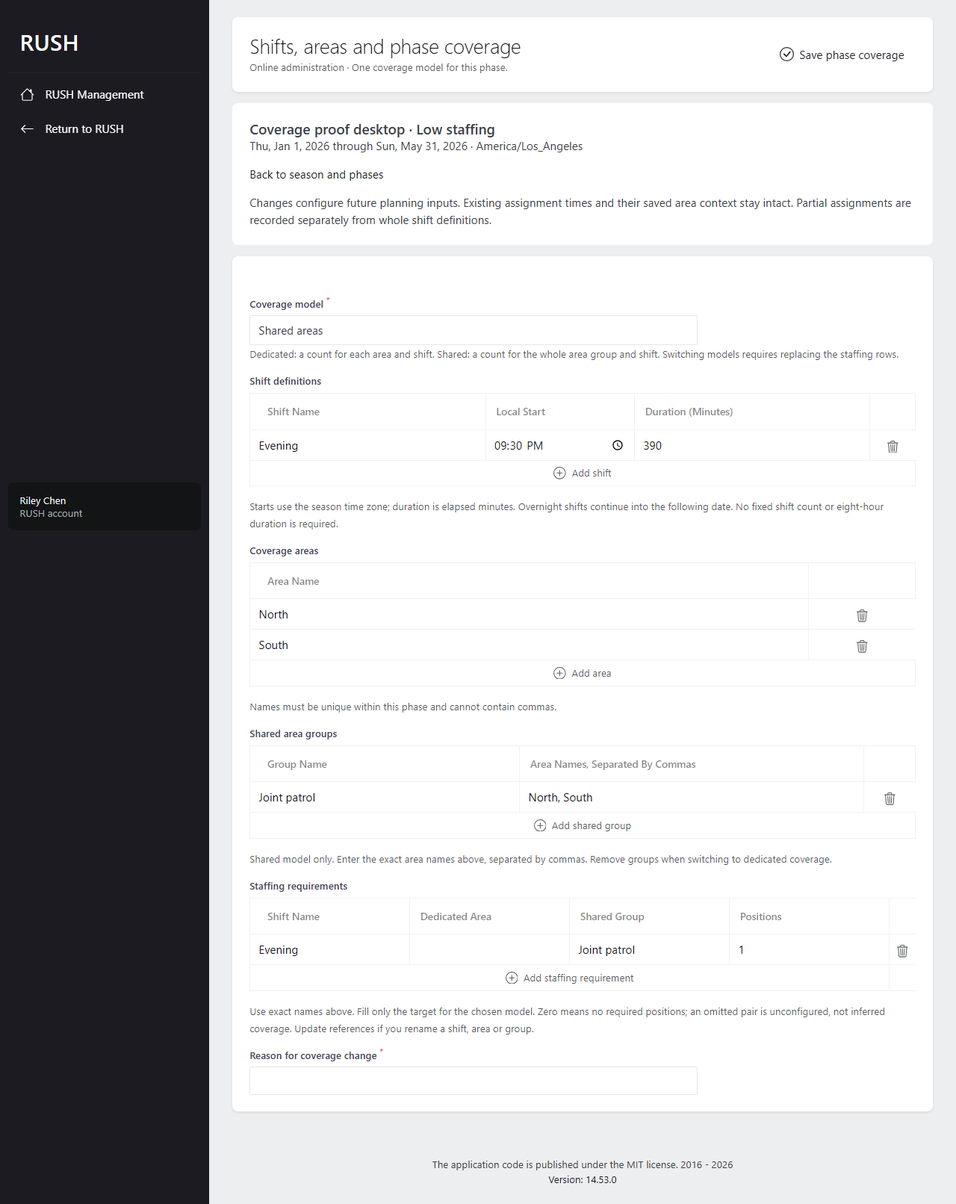
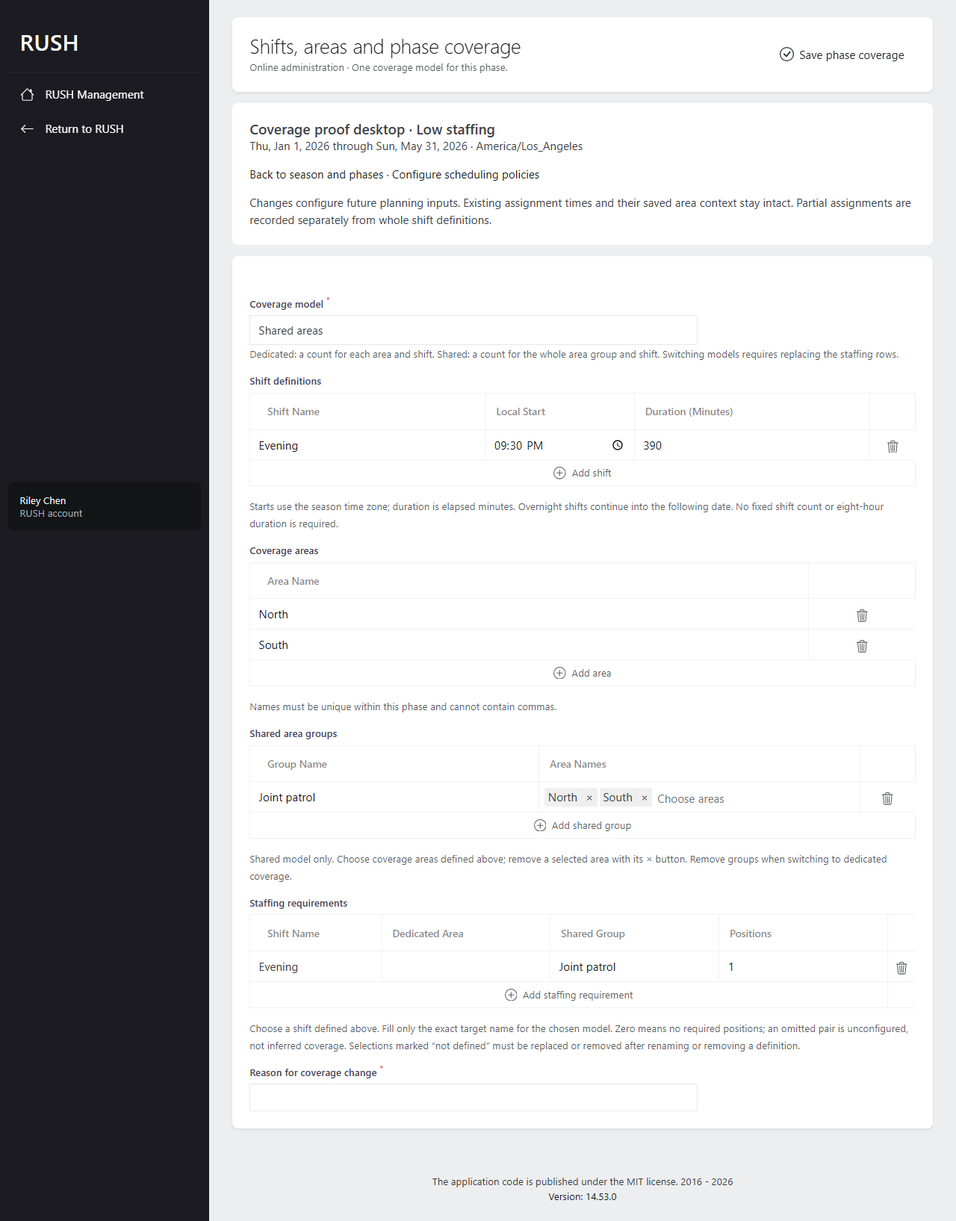
fix(seasons): select phase coverage references from definitions
Replace typed shared-area references with removable Orchid selection pills and
staffing shift names with dropdowns populated from unsaved definitions. Preserve
invalid selected names for explicit correction after definition changes and
Server rejection, while keeping staffing counts explicit and domain validation
authoritative. Document and exercise desktop and mobile form behavior.

Refs: RUSH-016
Requirements: R-02, R-03
Tests: php vendor/bin/pest tests/Feature/PhaseCoverageTest.php --compact passed (32 tests, 239 assertions); php vendor/bin/pint --test passed; npx playwright test --config playwright.integration.config.ts phase-coverage.spec.ts passed (2 desktop/mobile tests); npm run lint:check and npm run typecheck passed; npm run conventions:test passed (8 tests); git diff --check passed.

diff --git a/client/e2e/integration/phase-coverage.spec.ts b/client/e2e/integration/phase-coverage.spec.ts
@@ -45,9 +45,22 @@ test('Management configures dedicated and shared phase coverage with validation 
   );
   expect(season.status()).toBe(201);
   const phases = ((await season.json()) as { phases: { id: string }[] }).phases;
+  const selector = (label: string) => page.locator(`select[aria-label="${label}"]`).locator('..');
+  const choose = async (label: string, name: string) => {
+    const field = selector(label);
+    if (!(await field.locator('.ts-dropdown').isVisible())) {
+      // Target the search input in a multi-select; its center can contain a pill's remove button.
+      const multiple = await field.locator('select').getAttribute('multiple');
+      await field.locator(multiple === null ? '.ts-control' : '.ts-control input').click();
+    }
+    await field.locator('.ts-dropdown').getByText(name, { exact: true }).click();
+  };
   await page.goto(`/admin/organizations/${organization}/seasons/${seasonId}`);
   await page.locator(`a[href$="/phases/${phases[0]!.id}/coverage"]`).click();
+  await expect(page).toHaveURL(new RegExp(`/phases/${phases[0]!.id}/coverage$`));
   await page.locator('select[name="configuration[model]"]').selectOption('dedicated');
+  await page.getByRole('link', { name: 'Add staffing requirement', exact: true }).click();
+  await expect(selector('Staffing shift name').locator('select')).toHaveValue('');
   await page.getByRole('link', { name: 'Add shift', exact: true }).click();
   await page.getByLabel('Shift name', { exact: true }).fill('Evening');
   await page.getByLabel('Shift local start', { exact: true }).fill('21:30');
@@ -56,8 +69,14 @@ test('Management configures dedicated and shared phase coverage with validation 
     await page.getByRole('link', { name: 'Add area', exact: true }).click();
     await page.getByLabel('Area name', { exact: true }).last().fill(name);
   }
-  await page.getByRole('link', { name: 'Add staffing requirement', exact: true }).click();
-  await page.getByLabel('Staffing shift name', { exact: true }).fill('Evening');
+  await choose('Staffing shift name', 'Evening');
+  await page.getByLabel('Shift name', { exact: true }).fill('Night');
+  await expect(selector('Staffing shift name').locator('.item')).toHaveText(
+    'Evening (not defined)',
+  );
+  await choose('Staffing shift name', 'Night');
+  await page.getByLabel('Shift name', { exact: true }).fill('Evening');
+  await choose('Staffing shift name', 'Evening');
   await page.getByLabel('Staffing dedicated area', { exact: true }).fill('North');
   await page.getByLabel('Staffing shared group', { exact: true }).fill('Invalid mixed model');
   await page.getByLabel('Required positions', { exact: true }).fill('2');
@@ -67,6 +86,7 @@ test('Management configures dedicated and shared phase coverage with validation 
   await page.getByRole('button', { name: 'Save phase coverage', exact: true }).click();
   await expect(page.getByText(/coverage models cannot be mixed/).first()).toBeVisible();
   await expect(page.getByLabel('Shift local start', { exact: true })).toHaveValue('21:30');
+  await expect(selector('Staffing shift name').locator('select')).toHaveValue('Evening');
   await page.getByLabel('Staffing shared group', { exact: true }).clear();
   await page.getByRole('button', { name: 'Save phase coverage', exact: true }).click();
   await expect(page.getByText('Phase coverage saved.').first()).toBeVisible();
@@ -79,13 +99,29 @@ test('Management configures dedicated and shared phase coverage with validation 
   await page.locator('select[name="configuration[model]"]').selectOption('shared');
   await page.getByRole('link', { name: 'Add shared group', exact: true }).click();
   await page.getByLabel('Group name', { exact: true }).fill('Joint patrol');
-  await page.getByLabel('Group area names', { exact: true }).fill('North, South');
+  await choose('Group area names', 'North');
+  await choose('Group area names', 'South');
+  const members = selector('Group area names');
+  await members.locator('.item[data-value="South"] .remove').click();
+  await expect(members.locator('select')).toHaveValues(['North']);
+  await choose('Group area names', 'South');
+  // New unsaved definitions are selectable immediately, and removed references retain intent.
+  await page.getByRole('link', { name: 'Add area', exact: true }).click();
+  const newArea = page.getByLabel('Area name', { exact: true }).last();
+  await newArea.fill('East');
+  await choose('Group area names', 'East');
+  await newArea.locator('xpath=ancestor::tr').getByRole('link', { name: 'Remove row' }).click();
+  await expect(members.locator('.item[data-value="East"]')).toContainText('East (not defined)');
   await page.getByLabel('Staffing dedicated area', { exact: true }).clear();
   await page.getByLabel('Staffing shared group', { exact: true }).fill('Joint patrol');
   await page.getByLabel('Required positions', { exact: true }).fill('1');
   await page
     .getByLabel('Reason for coverage change', { exact: false })
     .fill('One Ranger covers both areas');
+  await page.getByRole('button', { name: 'Save phase coverage', exact: true }).click();
+  await expect(page.getByText('Choose areas defined in this phase.').first()).toBeVisible();
+  await expect(members.locator('select')).toHaveValues(['North', 'South', 'East']);
+  await members.locator('.item[data-value="East"] .remove').click();
   await page.getByRole('button', { name: 'Save phase coverage', exact: true }).click();
   await expect(page.locator('input[name="configuration[expected_revision]"]')).toHaveValue('2');
   await stale.getByLabel('Shift name', { exact: true }).fill('Keep this unsaved shift');
@@ -111,6 +147,8 @@ test('Management configures dedicated and shared phase coverage with validation 
   expect(saved.revision).toBe(2);
   expect(saved.groups[0]!.area_names).toEqual(['North', 'South']);
   await page.reload();
+  await expect(members.locator('select')).toHaveValues(['North', 'South']);
+  await expect(selector('Staffing shift name').locator('select')).toHaveValue('Evening');
   expect(await page.evaluate(() => document.documentElement.scrollWidth <= window.innerWidth)).toBe(
     true,
   );

diff --git a/server/resources/views/admin/phase-coverage.blade.php b/server/resources/views/admin/phase-coverage.blade.php
@@ -1,25 +1,27 @@
 <style>
     .matrix th:has(input[type="hidden"]) { display: none; }
+    .matrix .ts-wrapper { min-width: 10rem; }
+    .matrix .ts-control .item { overflow-wrap: anywhere; }
     @media (max-width: 767px) {
         .matrix, .matrix tbody, .matrix tr, .matrix th { display: block; width: 100%; }
         .matrix thead { display: none; }
         .matrix tr:not(.add-row) { padding: .5rem; margin-bottom: 1rem; border: 1px solid #d5d9dd; }
         .matrix th:has(input[type="hidden"]) { display: none; }
         .matrix a { min-height: 44px; display: inline-flex; align-items: center; }
-        .matrix th:has(input)::before { display: block; padding: .3rem .75rem 0; font-weight: normal; }
+        .matrix th:has(input, select)::before { display: block; padding: .3rem .75rem 0; font-weight: normal; }
         .matrix th:has(input[aria-label="Shift name"])::before { content: 'Shift name'; }
         .matrix th:has(input[aria-label="Shift local start"])::before { content: 'Local start'; }
         .matrix th:has(input[aria-label="Shift duration in minutes"])::before { content: 'Duration (minutes)'; }
         .matrix th:has(input[aria-label="Area name"])::before { content: 'Area name'; }
         .matrix th:has(input[aria-label="Group name"])::before { content: 'Group name'; }
-        .matrix th:has(input[aria-label="Group area names"])::before { content: 'Area names, separated by commas'; }
-        .matrix th:has(input[aria-label="Staffing shift name"])::before { content: 'Shift name'; }
+        .matrix th:has(select[aria-label="Group area names"])::before { content: 'Area names'; }
+        .matrix th:has(select[aria-label="Staffing shift name"])::before { content: 'Shift name'; }
         .matrix th:has(input[aria-label="Staffing dedicated area"])::before { content: 'Dedicated area'; }
         .matrix th:has(input[aria-label="Staffing shared group"])::before { content: 'Shared group'; }
         .matrix th:has(input[aria-label="Required positions"])::before { content: 'Positions'; }
     }
 </style>
-<div class="bg-white rounded p-4 mb-3">
+<div class="bg-white rounded p-4 mb-3" data-controller="coverage-references">
     <h2 class="h5">{{ $season->name }} · {{ $phase->name }}</h2>
     <p>{{ \Carbon\CarbonImmutable::parse($phase->starts_on, 'UTC')->format('D, M j, Y') }}
         through {{ \Carbon\CarbonImmutable::parse($phase->ends_on, 'UTC')->format('D, M j, Y') }} · {{ $season->timezone }}</p>
@@ -27,3 +29,61 @@
     · <a href="{{ route('platform.phase-policies', [$organization->id, $phase->id]) }}">Configure scheduling policies</a>
     <p class="mt-3 mb-0">Changes configure future planning inputs. Existing assignment times and their saved area context stay intact. Partial assignments are recorded separately from whole shift definitions.</p>
 </div>
+
+@push('scripts')
+    <script>
+        window.application.register('coverage-references', class extends window.Controller {
+            connect() {
+                this.form = this.element.closest('form');
+                this.onReferenceInput = (event) => {
+                    if (event.target.matches('input[name^="configuration[areas]"][name$="[name]"], input[name^="configuration[shifts]"][name$="[name]"], select[aria-label="Group area names"], select[aria-label="Staffing shift name"]')) {
+                        this.refreshReferences();
+                    }
+                };
+                this.form.addEventListener('input', this.onReferenceInput);
+                this.form.addEventListener('change', this.onReferenceInput);
+                // Matrix rows and Orchid's select widgets connect independently, including after Turbo navigation.
+                this.observer = new MutationObserver((changes) => {
+                    if (changes.some((change) => [...change.addedNodes, ...change.removedNodes].some((node) =>
+                        node instanceof Element && (node.matches('tr, .ts-wrapper'))))) this.refreshReferences();
+                });
+                this.observer.observe(this.form, { childList: true, subtree: true });
+                this.refreshReferences();
+            }
+
+            disconnect() {
+                this.observer.disconnect();
+                this.form.removeEventListener('input', this.onReferenceInput);
+                this.form.removeEventListener('change', this.onReferenceInput);
+            }
+
+            refreshReferences() {
+                for (const [collection, label] of [['areas', 'Group area names'], ['shifts', 'Staffing shift name']]) {
+                    const names = [...new Set([...this.form.querySelectorAll(`input[name^="configuration[${collection}]"][name$="[name]"]`)]
+                        .map((input) => input.value.trim()).filter(Boolean))];
+                    for (const select of this.form.querySelectorAll(`select[aria-label="${label}"]`)) {
+                        const selected = [...select.selectedOptions].map((option) => option.value).filter(Boolean);
+                        const values = [...new Set([...names, ...selected])];
+                        const options = values.map((value) => ({ value, text: names.includes(value) ? value : `${value} (not defined)` }));
+                        if (!select.multiple) options.unshift({ value: '', text: 'Choose a shift' });
+                        const choices = select.tomselect;
+                        if (choices) {
+                            choices.control_input.setAttribute('aria-label', label);
+                            for (const value of Object.keys(choices.options)) {
+                                if (!options.some((option) => option.value === value)) choices.removeOption(value, true);
+                            }
+                            for (const option of options) {
+                                if (!choices.options[option.value]) choices.addOption(option);
+                                else if (choices.options[option.value].text !== option.text) choices.updateOption(option.value, option);
+                            }
+                            choices.refreshOptions(false);
+                        } else {
+                            select.replaceChildren(...options.map(({ value, text }) => new Option(text, value, false, selected.includes(value))));
+                            if (!select.multiple && selected.length === 0) select.value = '';
+                        }
+                    }
+                }
+            }
+        });
+    </script>
+@endpush

diff --git a/server/app/Orchid/Screens/PhaseCoverageScreen.php b/server/app/Orchid/Screens/PhaseCoverageScreen.php
@@ -36,8 +36,7 @@ class PhaseCoverageScreen extends Screen
         $snapshot = $coverage->snapshot($record);
 
         return ['organization' => $organization, 'phase' => $record, 'season' => Season::findOrFail($record->season_id),
-            'configuration' => [...$snapshot, 'expected_revision' => $snapshot['revision'], 'expected_season_revision' => $snapshot['season_revision'],
-                'groups' => array_map(fn ($group) => [...$group, 'area_names' => implode(', ', $group['area_names'])], $snapshot['groups'])]];
+            'configuration' => [...$snapshot, 'expected_revision' => $snapshot['revision'], 'expected_season_revision' => $snapshot['season_revision']]];
     }
 
     public function commandBar(): iterable
@@ -61,18 +60,27 @@ class PhaseCoverageScreen extends Screen
             Matrix::make('configuration.areas')->title('Coverage areas')->columns(['Area name' => 'name', '' => 'id'])
                 ->fields(['name' => Input::make()->set('aria-label', 'Area name')->required()->maxlength(120), 'id' => Input::make()->type('hidden')])
                 ->maxRows(100)->addRowLabel('Add area')->help('Names must be unique within this phase and cannot contain commas.'),
-            Matrix::make('configuration.groups')->title('Shared area groups')->columns(['Group name' => 'name', 'Area names, separated by commas' => 'area_names', '' => 'id'])
+            Matrix::make('configuration.groups')->title('Shared area groups')->columns(['Group name' => 'name', 'Area names' => 'area_names', '' => 'id'])
                 ->fields(['name' => Input::make()->set('aria-label', 'Group name')->required()->maxlength(120),
-                    'area_names' => Input::make()->set('aria-label', 'Group area names')->required(), 'id' => Input::make()->type('hidden')])
-                ->maxRows(100)->addRowLabel('Add shared group')->help('Shared model only. Enter the exact area names above, separated by commas. Remove groups when switching to dedicated coverage.'),
+                    'area_names' => $this->referenceSelect('Group area names')->multiple()->placeholder('Choose areas')->required(), 'id' => Input::make()->type('hidden')])
+                ->maxRows(100)->addRowLabel('Add shared group')->help('Shared model only. Choose coverage areas defined above; remove a selected area with its × button. Remove groups when switching to dedicated coverage.'),
             Matrix::make('configuration.staffing')->title('Staffing requirements')->columns(['Shift name' => 'shift_name', 'Dedicated area' => 'area_name', 'Shared group' => 'group_name', 'Positions' => 'positions'])
-                ->fields(['shift_name' => Input::make()->set('aria-label', 'Staffing shift name')->required(),
+                ->fields(['shift_name' => $this->referenceSelect('Staffing shift name')->empty('Choose a shift')->required(),
                     'area_name' => Input::make()->set('aria-label', 'Staffing dedicated area'),
                     'group_name' => Input::make()->set('aria-label', 'Staffing shared group'),
                     'positions' => Input::make()->type('number')->min(0)->step(1)->set('aria-label', 'Required positions')->required()])
-                ->maxRows(10000)->addRowLabel('Add staffing requirement')->help('Use exact names above. Fill only the target for the chosen model. Zero means no required positions; an omitted pair is unconfigured, not inferred coverage. Update references if you rename a shift, area or group.'),
+                ->maxRows(10000)->addRowLabel('Add staffing requirement')->help('Choose a shift defined above. Fill only the exact target name for the chosen model. Zero means no required positions; an omitted pair is unconfigured, not inferred coverage. Selections marked “not defined” must be replaced or removed after renaming or removing a definition.'),
             Input::make('configuration.reason')->title('Reason for coverage change')->required()->maxlength(500),
         ])];
+    }
+
+    private function referenceSelect(string $label): Select
+    {
+        return Select::make()->set('aria-label', $label)->addBeforeRender(function () {
+            // Preserve saved and rejected selections; the form adds current unsaved definitions.
+            $values = array_filter((array) $this->get('value'), fn ($value) => is_string($value) && $value !== '');
+            $this->options(array_combine($values, $values));
+        });
     }
 
     public function save(Request $request, Organization $organization, string $phase, SavePhaseCoverage $service): RedirectResponse
@@ -81,14 +89,6 @@ class PhaseCoverageScreen extends Screen
         abort_unless(is_array($input), 422);
         foreach (['shifts', 'areas', 'groups', 'staffing'] as $key) {
             $input[$key] ??= [];
-        }
-        if (is_array($input['groups'])) {
-            foreach ($input['groups'] as &$group) {
-                if (is_array($group) && is_string($group['area_names'] ?? null)) {
-                    $group['area_names'] = array_map('trim', explode(',', $group['area_names']));
-                }
-            }
-            unset($group);
         }
         try {
             $service->handle($request->user(), $organization, $phase, [...$input, 'expected_revision' => $input['expected_revision'] ?? null]);

diff --git a/server/tests/Feature/PhaseCoverageTest.php b/server/tests/Feature/PhaseCoverageTest.php
@@ -128,6 +128,28 @@ it('rejects stale season revisions and foreign row identities with atomic rollba
     $this->assertDatabaseCount('phase_coverage_changes', 1);
 });
 
+it('accepts selected area arrays from Orchid and rejects empty or unknown selections without changing coverage', function () {
+    $admin = '/admin/organizations/'.$this->manager->organization_id.'/phases/'.$this->phase->id.'/coverage';
+    $shared = [...$this->input, 'model' => 'shared',
+        'groups' => [['name' => 'Joint', 'area_names' => ['North', 'South']]],
+        'staffing' => [['shift_name' => 'Evening', 'group_name' => 'Joint', 'positions' => 2]]];
+    $this->actingAs($this->manager->user, 'web')->from($admin)
+        ->post($admin.'/save', ['configuration' => $shared])->assertRedirect($admin)->assertSessionHasNoErrors();
+    $this->getJson($this->url)->assertJsonPath('groups.0.area_names', ['North', 'South']);
+    $shared['expected_revision'] = 1;
+    foreach ([[], ['Missing'], 'North, South'] as $members) {
+        $bad = $shared;
+        $bad['groups'][0]['area_names'] = $members;
+        $this->from($admin)->post($admin.'/save', ['configuration' => $bad])
+            ->assertRedirect($admin)->assertSessionHasErrors('configuration.groups.0.area_names')
+            ->assertSessionHasInput('configuration.groups.0.area_names', $members);
+        $this->getJson($this->url)->assertJsonPath('revision', 1)->assertJsonPath('groups.0.area_names', ['North', 'South']);
+    }
+    $shared['groups'][0]['area_names'] = ['North'];
+    $this->post($admin.'/save', ['configuration' => $shared])->assertRedirect($admin)->assertSessionHasNoErrors();
+    $this->getJson($this->url)->assertJsonPath('revision', 2)->assertJsonPath('groups.0.area_names', ['North']);
+});
+
 it('rolls back all configuration when audit persistence fails', function () {
     $this->actingAs($this->manager->user)->putJson($this->url, $this->input)->assertOk();
     DB::table('phase_coverage_changes')->insert(['id' => (string) Str::uuid(), 'phase_id' => $this->phase->id,

diff --git a/docs/evidence/RUSH-016/README.md b/docs/evidence/RUSH-016/README.md
@@ -70,9 +70,10 @@ protocol changes. Rollback removes these configuration records and the context
 column; back up before rolling back after real data is entered. Existing
 assignment audit JSON remains intact.
 
-Configuration is online and phase-scoped. Group member entry is comma-separated
-in Orchid, so area names cannot contain commas. Exact-name references must be
-updated when renaming inputs. Partial assignment creation/edit UI and generated
+Configuration is online and phase-scoped. Group member entry uses removable
+selection pills in Orchid; the existing domain restriction on commas in area
+names remains. Exact-name references must be updated when renaming inputs.
+Partial assignment creation/edit UI and generated
 whole-shift defaults remain RUSH-023; this task provides their validated persisted
 representation through the existing Management API. No employment/fairness
 policy, gap calculation, publication or payroll behavior is added.
@@ -108,3 +109,35 @@ cooldown regressions); Client `npm run lint:check` and `npm run typecheck`
 attempt reused records from focused tests and hit the availability fixture's
 last-row assumption; the clean fixture rerun above passed without changing
 that workflow. GitHub CI must rerun for the updated commit.
+
+## Coverage selector follow-up (2026-10-13)
+
+R-02/R-03 configuration now uses Orchid multiple-select pills for shared-area
+membership and a dropdown for staffing shifts. Choices follow unsaved definitions
+on the page. Renamed/deleted selected references remain marked “not defined” for
+explicit correction, including after Server rejection. Clearing an invalid
+selection removes it from the choices. Position counts and staffing rows remain
+explicit; no database, API schema, dependency or offline changes are needed.
+
+Checks executed for this follow-up:
+
+- `php vendor/bin/pest tests/Feature/PhaseCoverageTest.php --compact`: **32 passed,
+  239 assertions**, SQLite. Includes Orchid array submissions, removals, empty/
+  unknown/malformed member rejection, permissions and unchanged aggregate on error.
+- `php vendor/bin/pint --test`: **passed**.
+- `npx playwright test --config playwright.integration.config.ts phase-coverage.spec.ts`:
+  **2 passed**, desktop and 360px mobile, against isolated Caddy/Laravel/PostgreSQL
+  and a production-built PWA. Covers dropdown choices before saving definitions,
+  shift renames, pill removal/reselection, newly added areas, removed references,
+  retained selections after validation, stale revision recovery and save/reload.
+- Client `npm run lint:check` and `npm run typecheck`: **passed**.
+- Root `npm run conventions:test`: **8 passed**; `git diff --check`: **passed**.
+
+Initial browser attempts exposed test clicks that closed an already-open menu or
+hit a pill's remove button at the control's center on mobile. The test now opens
+closed menus only and targets the multi-select search input. The final desktop
+and mobile run passed. Updated screenshots above were visually inspected;
+mobile labels and controls fit without horizontal overflow.
+
+No migration is required. Existing stored names and group membership load into
+the new controls. Review and required CI remain pending for this follow-up.

diff --git a/docs/decisions/0016-phase-coverage.md b/docs/decisions/0016-phase-coverage.md
@@ -74,10 +74,14 @@ The existing season screen links each phase to an Orchid form with accessible
 shift/area/group/staffing rows. Native time fields use the browser's time format;
 help explains elapsed duration and overnight continuation. Forms retain entered
 values on validation and stale conflicts. Mobile rows stack with visible labels.
-Group members use comma-separated area names in the form (arrays in JSON);
-area names cannot contain commas. References use exact names and must be updated
-in the same save when renaming an input. This keeps initial configuration in one
-form without requiring preliminary saves to populate selectors.
+Group members use Orchid's multiple-select pills with individual remove buttons;
+staffing shifts use a dropdown. Choices follow the current form definitions,
+including unsaved additions, without a preliminary save. Selected references to
+renamed or removed definitions remain visible as “not defined” until explicitly
+replaced or removed; the domain service still rejects unknown references. Failed
+saves retain selected arrays. No staffing rows or position counts are inferred.
+Area names still cannot contain commas under the existing domain contract.
+Staffing target names must match the chosen model's area or group exactly.
 
 Orchid administration is online per Technical §7.4. No Dexie version, sync
 command, Workbox API cache, Pinia persistence or extra queue is added. Ranger

diff --git a/docs/contracts/phase-coverage.md b/docs/contracts/phase-coverage.md
@@ -56,7 +56,11 @@ Zero positions is explicit; absent shift/target pairs remain unconfigured.
 
 Orchid uses `/admin/organizations/{organization}/phases/{phase}/coverage` with
 only GET and POST `save` exposed. It invokes SavePhaseCoverage and adapts only
-form field names, missing matrix arrays and comma-separated group members.
+form field names and missing matrix arrays. Group area names are selected as
+removable pills and submitted as an array. Staffing shift dropdowns and area
+choices follow the current form's definitions, including unsaved additions.
+Removed/renamed selected references remain marked “not defined” for explicit
+correction. Failed saves preserve selections; Server validation is authoritative.
 
 ## Optional manual assignment source context
 

diff --git a/docs/RUSH_V1_Implementation_Plan.md b/docs/RUSH_V1_Implementation_Plan.md
@@ -327,6 +327,9 @@ See [ADR 0016](decisions/0016-phase-coverage.md),
 Pest covers validation, authorization, rollback, independent phases, DST,
 partial bounds and PostgreSQL concurrent managers. Playwright covers desktop/mobile
 configuration, reload, model changes, validation and retained stale input.
+The RUSH-016 usability follow-up adds removable shared-area pills and staffing
+shift dropdowns sourced from current unsaved definitions, with browser coverage
+for selection removal and retained invalid references.
 Administration stays online; no Client database or sync changes. Scenarios 1–2
 have configuration evidence; generation/gaps/publication and all nine full
 acceptance-scenario owners remain unchanged. Human review, CI and merge remain
